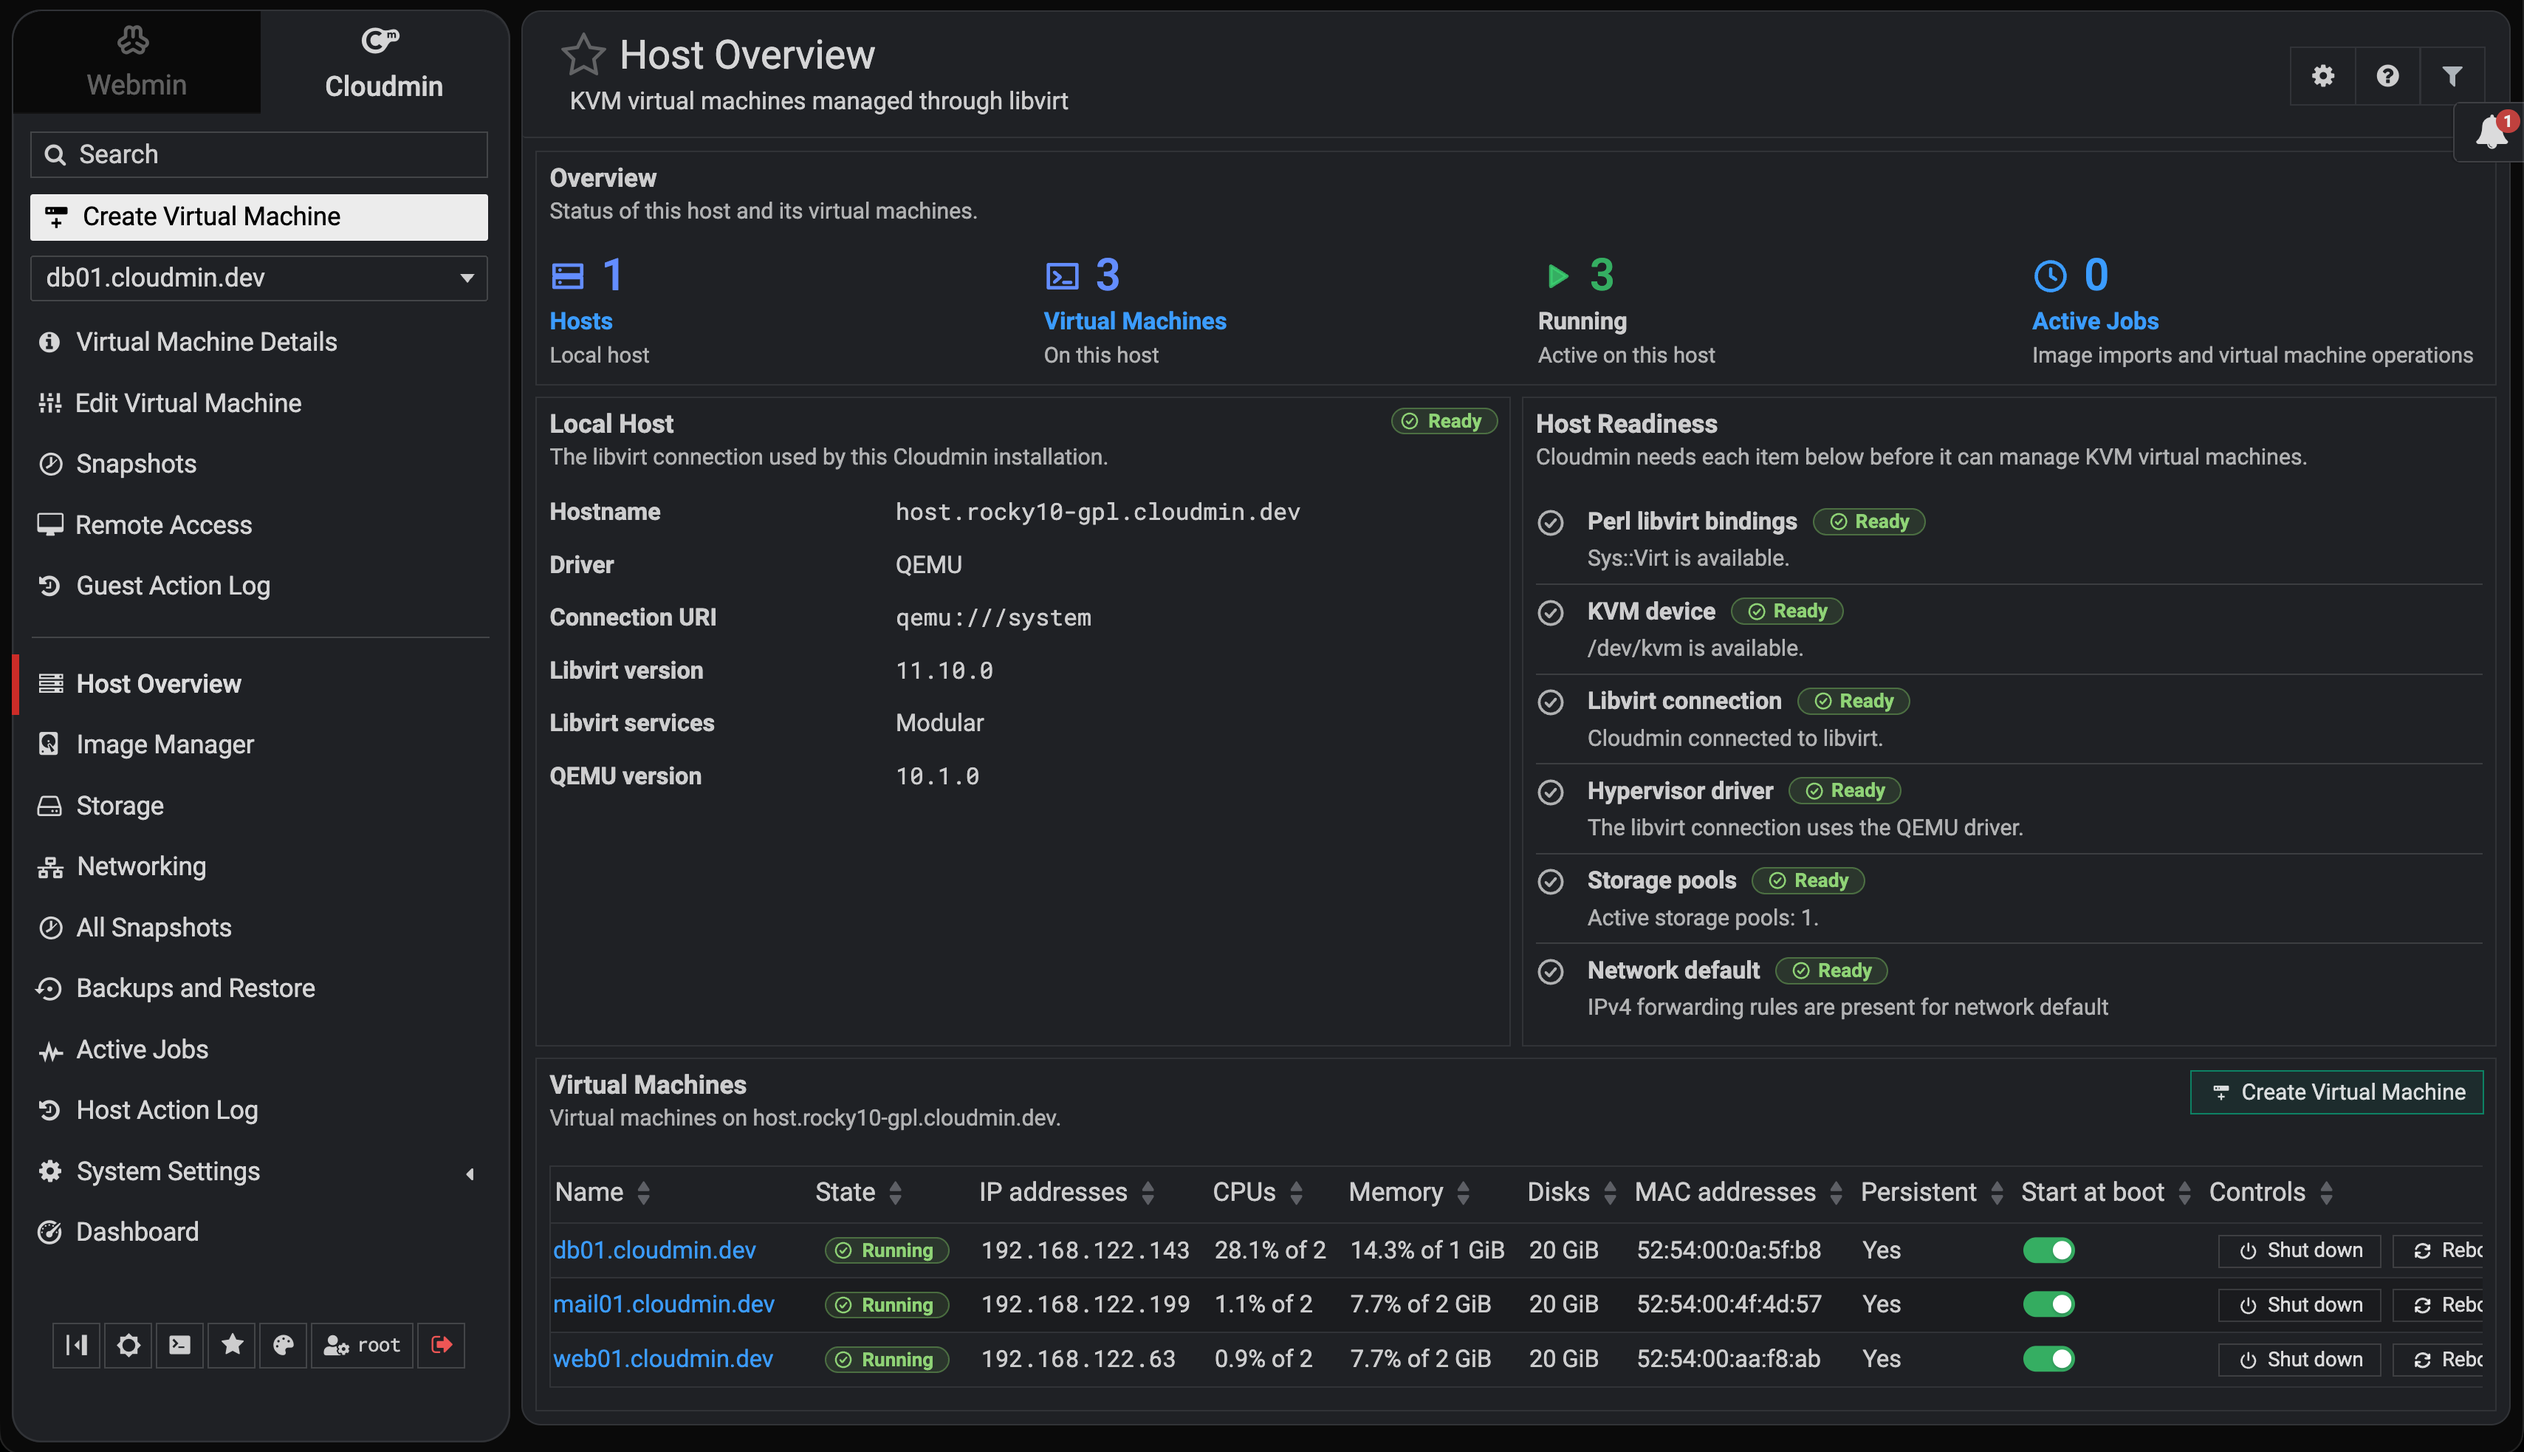
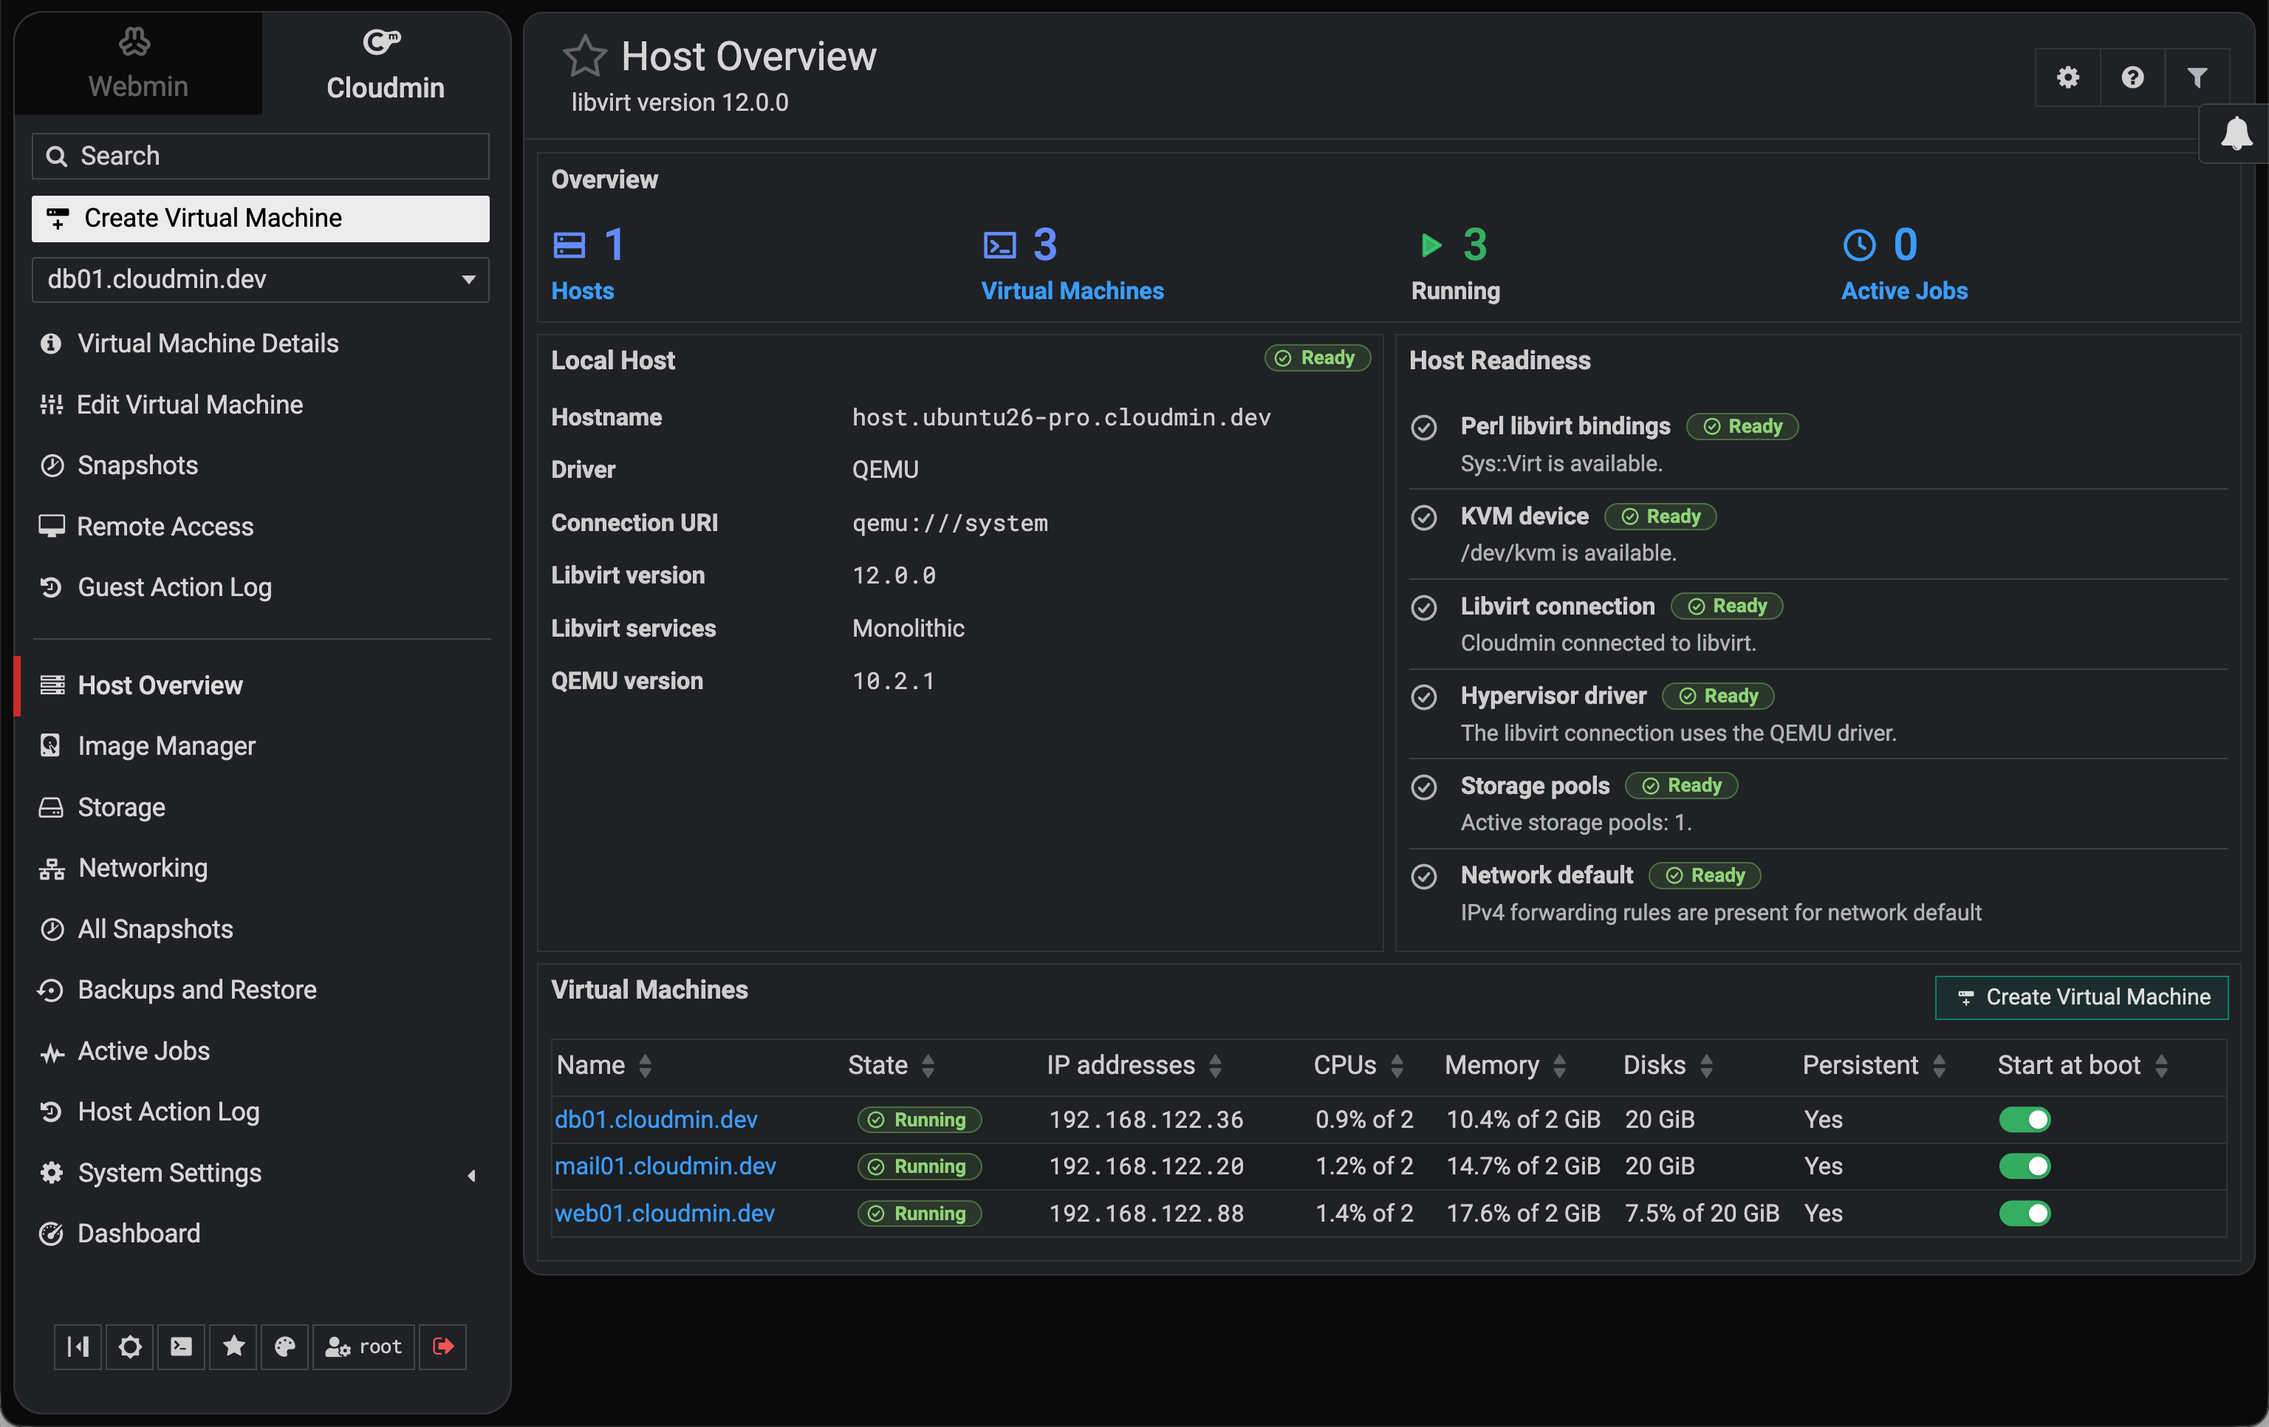
Update host overview screenshots

diff --git a/README.md b/README.md
@@ -5,7 +5,7 @@ Cloudmin 10 manages QEMU/KVM virtual machines on one host through libvirt, from 
 <p align="center">
   <picture>
     <source media="(prefers-color-scheme: dark)" srcset="docs/images/host-overview-dark.png">
-    <img src="docs/images/host-overview-light.png" width="900" alt="The Cloudmin host overview: counters for hosts, virtual machines, running guests and active jobs, the libvirt connection details, a host readiness checklist with every item ready, and a table of running virtual machines with their addresses, resources and power controls.">
+    <img src="docs/images/host-overview-light.png" width="900" alt="The Cloudmin host overview: counters for hosts, virtual machines, running guests and active jobs, the libvirt connection details, a host readiness checklist with every item ready, and a table of running virtual machines with their addresses, resources and start-at-boot switches.">
   </picture>
 </p>
 
